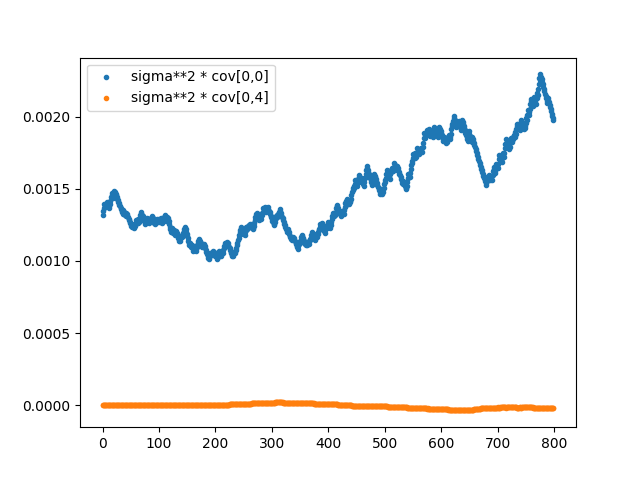
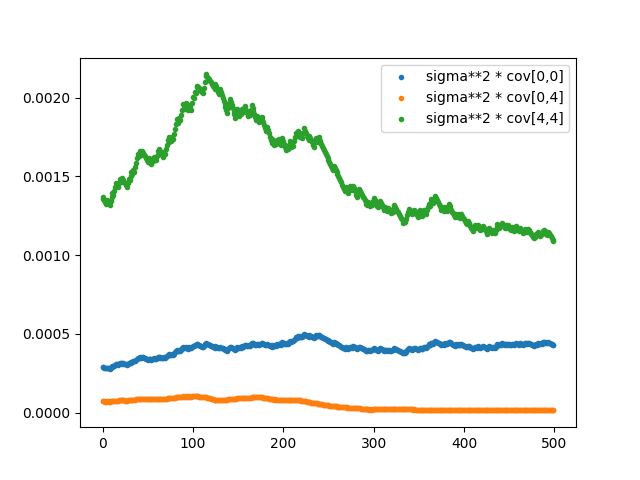
test run adaptive

diff --git a/metropolis_engine.py b/metropolis_engine.py
@@ -31,7 +31,7 @@ class MetropolisEngine():
     self.param_space_dims = self.num_field_coeffs+1 #in more basic case perturbation amplitude, magnitudes only of ci.  subclasses may consider both magnitude and phase / both real and img parts of cis and increase this number.
     self.mean = np.zeros(self.param_space_dims)
     if covariance_matrix is None:
-      self.covariance_matrix = np.identity(self.param_space_dims)
+      self.covariance_matrix = .03*np.identity(self.param_space_dims) # initial default guess needs to be of the right order of magnitude of variances, or covariance matrix doesnt stabilize withing first 200 steps before sigma starts adjusting
     else:
       self.covariance_matrix = covariance_matrix
     self.accepted_counter =1
@@ -119,12 +119,16 @@ class MetropolisEngine():
     :return: new state and energy in the form tuple (ampltiude, field_coeffs (dict), surface_energy, field_energy).  Identical to input parameters if step was rejected.  Also modifies step counter and acceptance rate counter.
     """
     proposed_amplitude, proposed_field_coeffs = self.draw_all_from_proposal_distribution(amplitude, field_coeffs)
+    #print("propsed state", proposed_amplitude, proposed_field_coeffs)
     if abs(proposed_amplitude) >= 1:
       return amplitude, field_coeffs, surface_energy, field_energy
     new_field_energy = system.calc_field_energy(proposed_field_coeffs, proposed_amplitude, amplitude_change=True)
     new_surface_energy = system.calc_surface_energy(proposed_amplitude, amplitude_change=False)
     accept = self.metropolis_decision((field_energy + surface_energy), (new_field_energy + new_surface_energy))
+    #print("propsed c0", proposed_field_coeffs[0])
+    #print("field_energy", new_field_energy, "old_field_energy", field_energy)
     if accept:
+      #print("accepted")
       field_energy = new_field_energy
       surface_energy = new_surface_energy
       amplitude = proposed_amplitude
@@ -165,7 +169,8 @@ class MetropolisEngine():
     old_phases = [cmath.phase(field_coeffs[key]) for key in field_coeffs]
     proposed_addition =  np.random.multivariate_normal([0]*len(state), self.sampling_width**2*self.covariance_matrix, check_valid='raise')
     proposed_amplitude = amplitude+(-1 if amplitude<0 else 1)*proposed_addition[0]
-    proposed_field_coeffs = dict([(key, self.modify_phase(proposed_amplitude, old_phase)) for (key,(proposed_amplitude, old_phase)) in zip(self.keys_ordered, zip(proposed_addition[1:], old_phases))])
+    proposed_field_coeff_amplitude = [original+addition for (original, addition) in zip(state[1:], proposed_addition[1:]) ]
+    proposed_field_coeffs = dict([(key, self.modify_phase(proposed_amplitude, old_phase)) for (key,(proposed_amplitude, old_phase)) in zip(self.keys_ordered, zip(proposed_field_coeff_amplitude, old_phases))])
     return proposed_amplitude, proposed_field_coeffs
   
   def metropolis_decision(self, old_energy, proposed_energy):
@@ -196,7 +201,7 @@ class MetropolisEngine():
     By default the parameters we track for correlation matrix, co-adjustemnt of step sizes are [abs(amplitude), {abs(field_coeff_i)}] (in this order)
     override in derived classes where different representation of the parameters is tracked.
     """
-    state = [amplitude] # TODO: abs?
+    state = [abs(amplitude)] # TODO: abs?
     state.extend([abs(field_coeffs[key]) for key in self.keys_ordered])
     return np.array(state)
 
@@ -207,7 +212,7 @@ class MetropolisEngine():
     :param phase_sigma: width of gaussian distribution to modify phase by.  Optional, default .5 (pi)
     """
     # TODO : pass option to set phase_sigma upwards
-    new_phase = phase + random.gauss(0, phase_sigma)
+    new_phase = phase  + random.gauss(0, phase_sigma)
     return cmath.rect(amplitude, new_phase)
 
   def random_complex(self, r):
@@ -278,11 +283,13 @@ class RobbinsMonroAdaptiveMetropolisEngine(StaticCovarianceAdaptiveMetropolisEng
     #update sampling width
     super().update_proposal_distribution(accept, amplitude, field_coeffs)
     new_state = self.construct_state(amplitude, field_coeffs)
-    old_mean = self.mean
+    old_mean = copy.copy(self.mean)
     assert(isinstance(new_state, np.ndarray))
     self.update_mean(state=new_state)
     if self.step_counter > 100:
       self.update_covariance_matrix(old_mean, new_state)
+    #print("covariace_matrix", self.covariance_matrix)
+
 
   def update_mean(self, state):
     assert(isinstance(state, np.ndarray))
@@ -292,10 +299,11 @@ class RobbinsMonroAdaptiveMetropolisEngine(StaticCovarianceAdaptiveMetropolisEng
   def update_covariance_matrix(self, old_mean, state):
     i = self.step_counter
     small_number = self.sampling_width**2 / i
+    #print("added",  np.outer(old_mean,old_mean) - i/(i-1)*np.outer(self.mean,self.mean) + np.outer(state,state)/(i-1) + small_number*np.identity(self.param_space_dims))
+    #print("multiplied", (i-2)/(i-1)*self.covariance_matrix)
+    #print("result",  (i-2)/(i-1)*self.covariance_matrix +  np.outer(old_mean,old_mean)- i/(i-1)*np.outer(self.mean,self.mean) + np.outer(state,state)/(i-1) + small_number*np.identity(self.param_space_dims))
     self.covariance_matrix *= (i-2)/(i-1)
     self.covariance_matrix += np.outer(old_mean,old_mean) - i/(i-1)*np.outer(self.mean,self.mean) + np.outer(state,state)/(i-1) + small_number*np.identity(self.param_space_dims)
-    
-
   # TODO: test for convergence of sampling_width, c->0
 
 class FiniteAdaptiveMetropolisEngine(MetropolisEngine):

diff --git a/tests/test_adaptive_metropolis_engine.py b/tests/test_adaptive_metropolis_engine.py
@@ -11,7 +11,7 @@ class TestBaseMetropolis(unittest.TestCase):
 
   def setUp(self): 
     self.field_coeffs=dict([(i, 0+0j) for i in range(-3,4)])
-    self.me = metropolis_engine.MetropolisEngine(num_field_coeffs=len(self.field_coeffs.keys()) )
+    self.me = metropolis_engine.MetropolisEngine(self.field_coeffs)
     self.sys_basic = system.System(radius=1, wavenumber=1, kappa=1, gamma=1, alpha=-1, u=1, C=1, n=1)
 
   def tearDown(self):
@@ -19,7 +19,7 @@ class TestBaseMetropolis(unittest.TestCase):
   
   def test_init_covariance_matrix_default(self):
     num_field_coeffs=3
-    me = metropolis_engine.MetropolisEngine(num_field_coeffs=num_field_coeffs)
+    me = metropolis_engine.MetropolisEngine(self.field_coeffs)
     self.assertEqual(me.covariance_matrix[1][3],0)
     self.assertEqual(me.covariance_matrix[2][2],1)
  
@@ -40,7 +40,7 @@ class TestBaseMetropolis(unittest.TestCase):
     pass
 
   def test_set_temperature(self):
-    me = metropolis_engine.MetropolisEngine(num_field_coeffs=3, temp=0)
+    me = metropolis_engine.MetropolisEngine(self.field_coeffs, temp=0)
     self.assertEqual(me.temp, 0.0)
     me.set_temperature(0.50)
     self.assertEqual(me.temp, 0.5)
@@ -82,8 +82,8 @@ class TestStaticCovarianceAdaptiveMetropolis(unittest.TestCase):
 
   def setUp(self): 
     self.field_coeffs=dict([(i, 0+0j) for i in range(-3,4)])
-    self.me_identity = metropolis_engine.StaticCovarianceAdaptiveMetropolisEngine(num_field_coeffs=len(self.field_coeffs ))
-    self.me_correlated = metropolis_engine.StaticCovarianceAdaptiveMetropolisEngine(num_field_coeffs=len(self.field_coeffs ))
+    self.me_identity = metropolis_engine.StaticCovarianceAdaptiveMetropolisEngine(self.field_coeffs )
+    self.me_correlated = metropolis_engine.StaticCovarianceAdaptiveMetropolisEngine(self.field_coeffs )
     self.sys_basic = system.System(radius=1, wavenumber=1, kappa=1, gamma=1, alpha=-1, u=1, C=1, n=1)
 
   def tearDown(self):
@@ -159,7 +159,7 @@ class TestStaticCovarianceAdaptiveMetropolis(unittest.TestCase):
     field_coeffs = dict([(i, 1+0j) for i in range(-3,4)])
     me = metropolis_engine.RobbinsMonroAdaptiveMetropolisEngine(field_coeffs, amplitude)
     old_mean = copy.copy(me.mean)
-    new_amplitude = -1 #covariance matrix calculation should work with abs(amplitude) due to symmetry a <-> -a
+    new_amplitude = 1 
     new_field_coeffs = dict([(i, 0+0j) for i in range(-3, 4)])
     me.step_counter +=1
     new_state = [abs(new_amplitude)]
@@ -170,7 +170,7 @@ class TestStaticCovarianceAdaptiveMetropolis(unittest.TestCase):
     # some anticorrelated: expect + or - 0.5
     self.assertEqual(me.covariance_matrix[0,0], 0.5)
     self.assertEqual(me.covariance_matrix[2,2], 0.5)
-    self.assertEqual(me.covariance_matrix[0,3], -0.5)
+    self.assertEqual(me.covariance_matrix[0,3],-0.5)
 
   def test_100th_step_covariance(self):
     amplitude = 0
@@ -178,7 +178,7 @@ class TestStaticCovarianceAdaptiveMetropolis(unittest.TestCase):
     me = metropolis_engine.RobbinsMonroAdaptiveMetropolisEngine(field_coeffs, amplitude)
     me.step_counter = 99 #100th step - covariance has been identity until now; start adapting
     old_mean = copy.copy(me.mean) # assume mean has been all 0s for 100 steps
-    new_amplitude = -1 #covariance matrix calculation should work with abs(amplitude) due to symmetry a <-> -a
+    new_amplitude = 1
     new_field_coeffs = dict([(i, 1+0j) for i in range(-3, 4)])
     me.step_counter +=1
     new_state = [abs(new_amplitude)]
@@ -193,7 +193,19 @@ class TestStaticCovarianceAdaptiveMetropolis(unittest.TestCase):
     self.assertAlmostEqual(me.covariance_matrix[2,2], 0.99989898989)
     self.assertAlmostEqual(me.covariance_matrix[0,3], 0.010)
     self.assertAlmostEqual(me.covariance_matrix[4,3], .010) # other off diagonal
+    self.calc_two_step_covariance()
 
+  def calc_two_step_covariance(self):
+    history = [[0,1,1,1,1,1,1,1], [1,0,0,0,0,0,0,0]]
+    mean = [0.5]*8
+    covariance = 0
+    mean = np.array([1*.01]*8)
+    for vector in history:
+      vector=np.array(vector)
+      covariance += 1/1 *np.outer((vector-mean), (vector - mean))
+    print(history)
+    print(mean)
+    print(covariance)
 
 if __name__ == '__main__':
   unittest.main()

diff --git a/run.py b/run.py
@@ -103,7 +103,8 @@ def single_run(kappa,wavenumber, n_steps, method = "simultaneous", field_coeffs=
     amplitude = 0
   ########### setup #############
   se = ce.System(wavenumber=wavenumber, radius=radius, alpha=alpha, C=C, u=u, n=n, kappa=kappa, gamma=gamma)
-  #try getting historical parameters from files
+  
+  #try getting last results from files
   if os.path.isfile("./last_sigma.pickle") and os.path.getsize("./last_sigma.pickle"):
     f = open('last_sigma.pickle', 'rb')
     sampling_width = pickle.load(f)
@@ -114,7 +115,8 @@ def single_run(kappa,wavenumber, n_steps, method = "simultaneous", field_coeffs=
     cov = pickle.load(f)
   else:
     cov=None
-  me = metropolis_engine.RobbinsMonroAdaptiveMetropolisEngine(initial_field_coeffs=field_coeffs, sampling_width=sampling_width, covariance_matrix=cov, initial_amplitude=amplitude, temp=temp)
+  
+  me = metropolis_engine.RobbinsMonroAdaptiveMetropolisEngine(initial_field_coeffs=field_coeffs, covariance_matrix=cov,sampling_width=sampling_width,  initial_amplitude=amplitude, temp=temp)
   surface_energy = se.calc_surface_energy(amplitude, amplitude_change=True)
   field_energy = se.calc_field_energy(field_coeffs, amplitude, amplitude_change=True)
   ########### start of data collection ############
@@ -124,6 +126,7 @@ def single_run(kappa,wavenumber, n_steps, method = "simultaneous", field_coeffs=
   means=[]
   amplitude_cov=[]
   amplitude_c0_cov=[]
+  c0_cov=[]
   if method == "sequential":
     for i in range(n_steps):
       amplitude, field_energy, surface_energy = me.step_amplitude(amplitude=amplitude, field_coeffs=field_coeffs,
@@ -145,6 +148,7 @@ def single_run(kappa,wavenumber, n_steps, method = "simultaneous", field_coeffs=
       c_0s.append(abs(field_coeffs[0]))
       amplitude_cov.append(me.covariance_matrix[0,0])
       amplitude_c0_cov.append(me.covariance_matrix[0,4])
+      c0_cov.append(me.covariance_matrix[4,4])
       means.append(me.mean[0])
   plt.scatter(range(len(amplitudes)), amplitudes, label='amplitude')
   plt.scatter(range(len(amplitudes)), c_0s, label='fieldcoeff 0')
@@ -153,11 +157,14 @@ def single_run(kappa,wavenumber, n_steps, method = "simultaneous", field_coeffs=
   plt.close()
   plt.scatter(range(len(sigmas)), sigmas, marker='.', label="sigma")
   plt.scatter(range(len(sigmas)), amplitude_cov,marker='.', label = "covariance matrix[0,0]")
+  plt.scatter(range(len(sigmas)), amplitude_c0_cov,marker='.', label = "covariance matrix[0,4]")
+  plt.scatter(range(len(sigmas)), c0_cov,marker='.', label = "covariance matrix[4,4]")
   plt.legend()
   plt.savefig("amplitude_proposal_dist.png")
   plt.close()
   plt.scatter(range(len(sigmas)), [a*s**2 for (a,s) in zip(amplitude_cov, sigmas)] ,marker='.', label = "sigma**2 * cov[0,0]")
   plt.scatter(range(len(sigmas)), [a*s**2 for (a,s) in zip(amplitude_c0_cov, sigmas)] ,marker='.', label = "sigma**2 * cov[0,4]")
+  plt.scatter(range(len(sigmas)), [a*s**2 for (a,s) in zip(c0_cov, sigmas)] ,marker='.', label = "sigma**2 * cov[4,4]")
   plt.legend()
   plt.savefig("amplitude_proposal_dist_2.png")
   plt.close()
@@ -179,7 +186,7 @@ u = 1
 n = 1
 kappa = 1
 gamma = 1
-temp = .1
+temp = 0.1
 
 # system dimensions
 radius = 1

diff --git a/tests/test_metropolis_engine.py b/tests/test_metropolis_engine.py
@@ -10,8 +10,9 @@ import copy
 class TestMetropolisSteps(unittest.TestCase):
 
   def setUp(self):
-    self.me_sim = metropolis_engine.MetropolisEngine(num_field_coeffs=3)
-    self.me_seq = metropolis_engine.MetropolisEngine(num_field_coeffs=3)
+    self.field_coeffs = dict([(i, 0+0j) for i in range(-3,4)])
+    self.me_sim = metropolis_engine.MetropolisEngine(self.field_coeffs)
+    self.me_seq = metropolis_engine.MetropolisEngine(self.field_coeffs)
     self.sys_basic = system.System(radius=1, wavenumber=1, kappa=1, gamma=1, alpha=-1, u=1, C=1, n=1)
 
   def tearDown(self):
@@ -19,7 +20,7 @@ class TestMetropolisSteps(unittest.TestCase):
   
   def test_init_sampling_width_float(self):
     num_field_coeffs=3
-    me = metropolis_engine.MetropolisEngine(num_field_coeffs=num_field_coeffs , sampling_width =.5)
+    me = metropolis_engine.MetropolisEngine(self.field_coeffs , sampling_width =.5)
     self.assertEqual(me.sampling_width,.5)
  
   def test_step_fieldcoeff(self):
@@ -52,7 +53,8 @@ class TestMetropolisSteps(unittest.TestCase):
 class TestMetropolisHelperFunctions(unittest.TestCase):
 
   def setUp(self):
-    self.me = metropolis_engine.MetropolisEngine( num_field_coeffs=3, sampling_width=.05, temp=0)
+    self.field_coeffs=dict([(i, 0+0j) for i in range(-3,4)])
+    self.me = metropolis_engine.MetropolisEngine( self.field_coeffs, sampling_width=.05, temp=0)
 
   def tearDown(self):
     pass
@@ -62,7 +64,7 @@ class TestMetropolisHelperFunctions(unittest.TestCase):
     pass
 
   def test_set_temperature(self):
-    me = metropolis_engine.MetropolisEngine(num_field_coeffs=3, temp=0)
+    me = metropolis_engine.MetropolisEngine(self.field_coeffs, temp=0)
     self.assertEqual(me.temp, 0.0)
     me.set_temperature(0.50)
     self.assertEqual(me.temp, 0.5)

diff --git a/system.py b/system.py
@@ -160,7 +160,8 @@ class System():
     assert (math.isclose(B_complex_energy.imag, 0, abs_tol=1e-7))
     assert (math.isclose(D_complex_energy.imag, 0, abs_tol=1e-7))
     #print("total")
-    #print("A:", A_complex_energy.real, "B:", B_complex_energy.real, "D:" , D_complex_energy.real)
+    #print(self.alpha, A_complex_energy.real)
+    #print(self.alpha * A_complex_energy.real + self.C * B_complex_energy.real + 0.5 * self.u * D_complex_energy.real)
     return self.alpha * A_complex_energy.real + self.C * B_complex_energy.real + 0.5 * self.u * D_complex_energy.real
 
   def calc_field_energy_diff_ABpart(self, index, new_field_coeff, old_field_coeffs):
